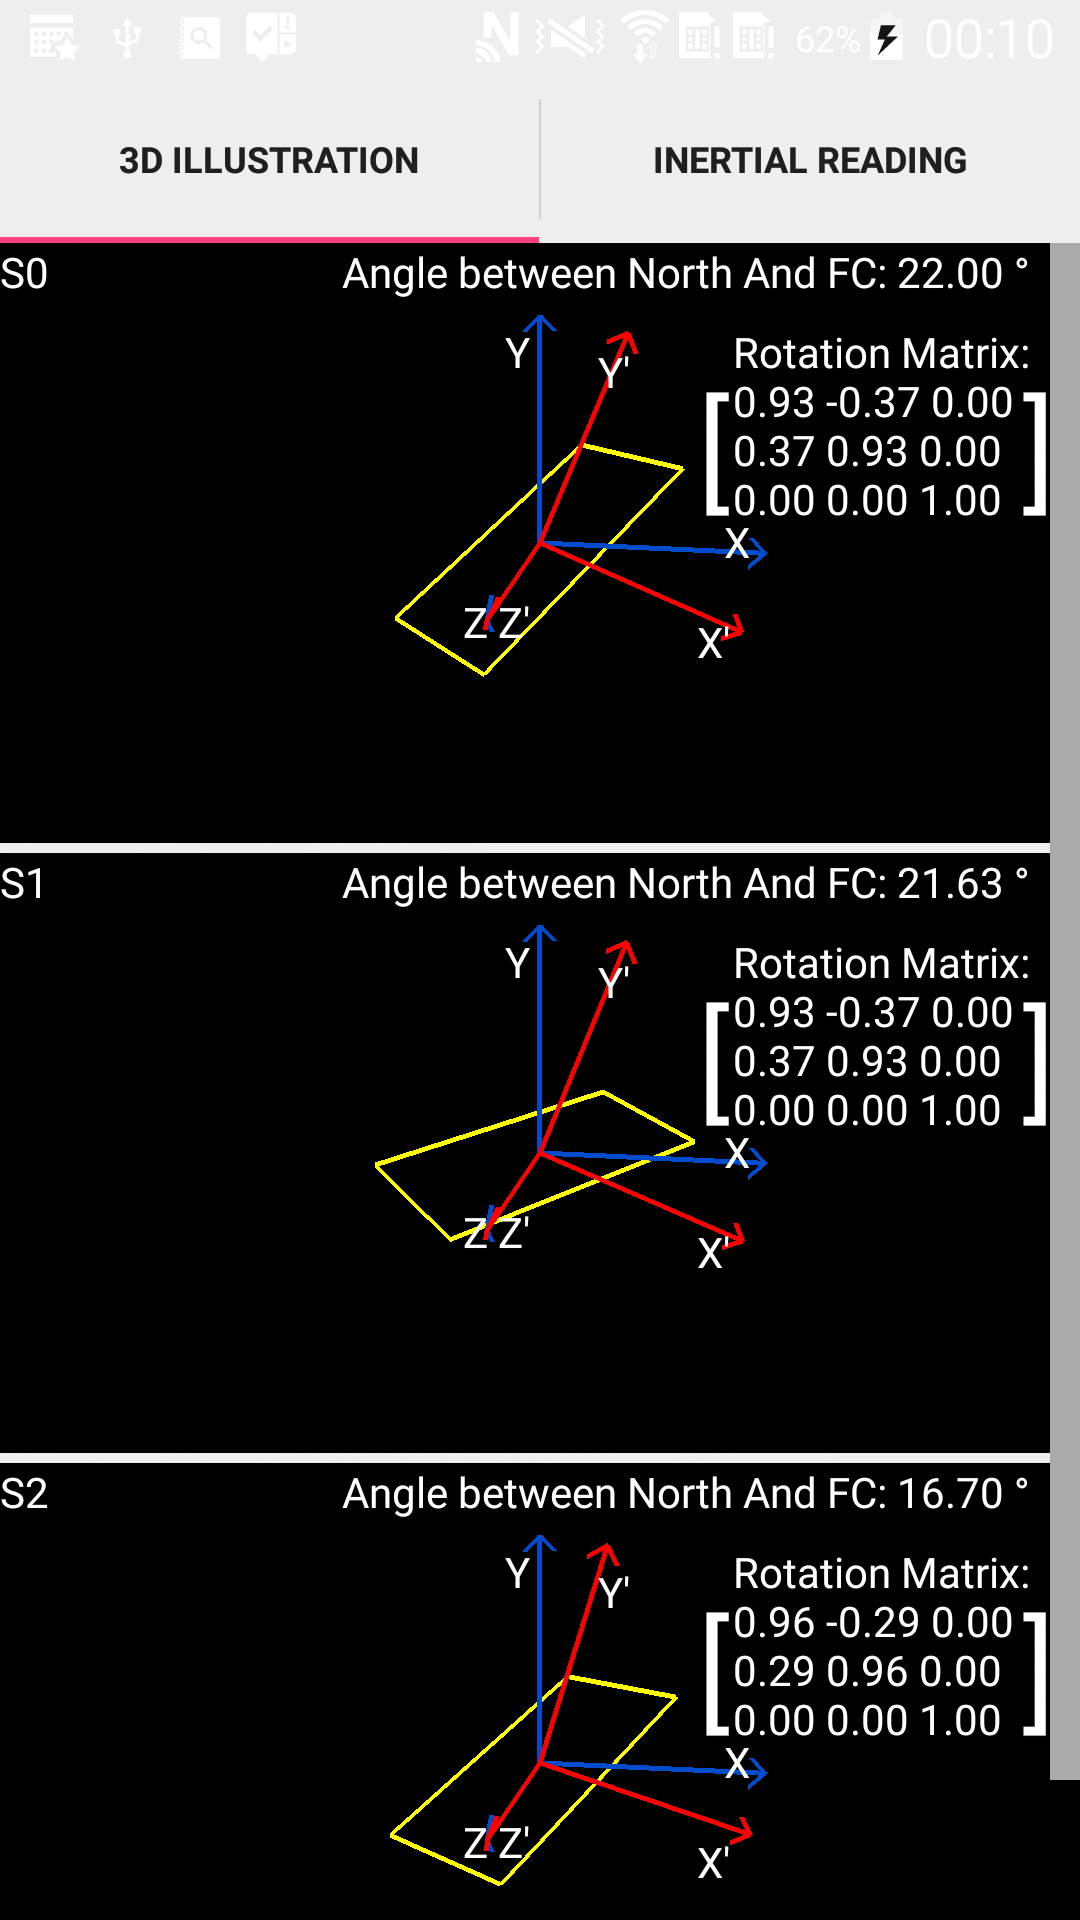
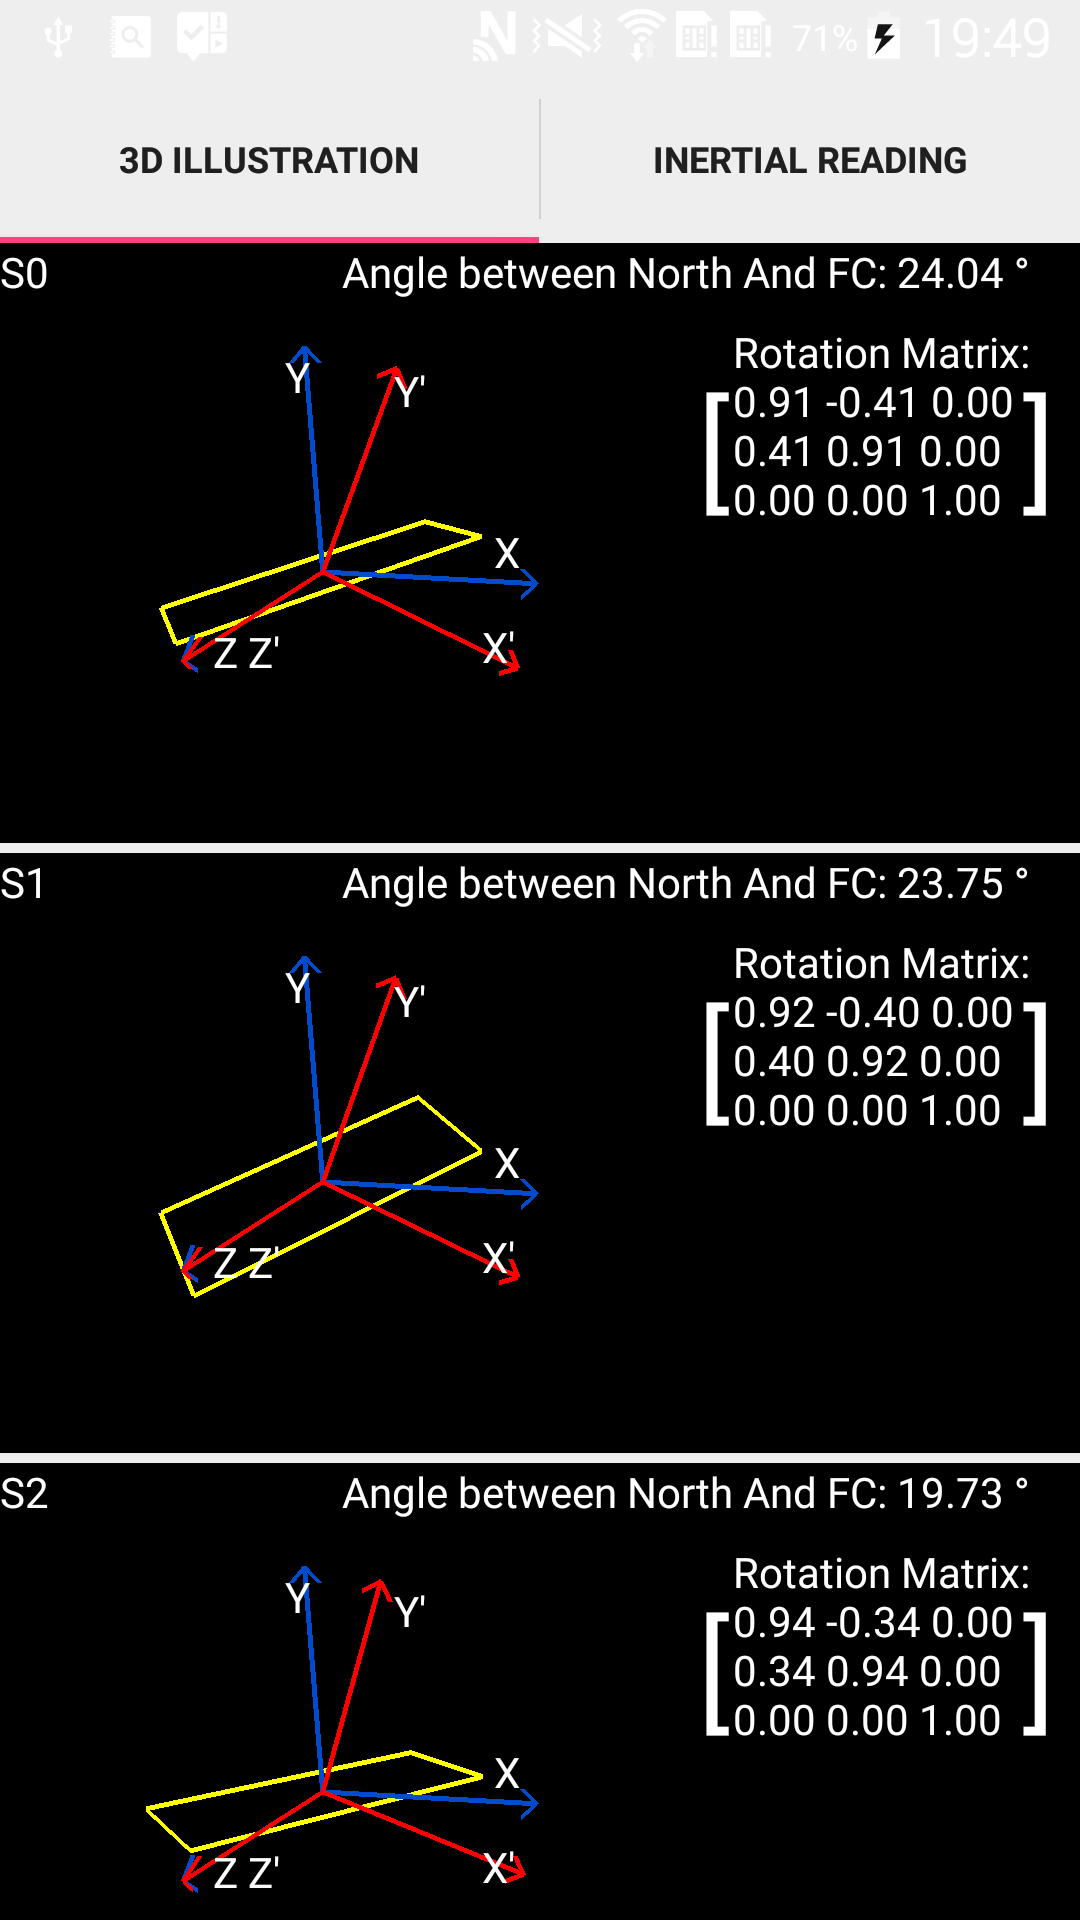
android ui change

diff --git a/app/src/main/java/com/dislab/leocai/spacesyncandroidui/ui/DirectionFragment.java b/app/src/main/java/com/dislab/leocai/spacesyncandroidui/ui/DirectionFragment.java
@@ -6,6 +6,7 @@ import android.support.v4.app.Fragment;
 import android.view.LayoutInflater;
 import android.view.View;
 import android.view.ViewGroup;
+import android.widget.EditText;
 import android.widget.LinearLayout;
 
 import com.dislab.leocai.spacesync.core.DirectionEstimateResults;
@@ -28,19 +29,47 @@ public class DirectionFragment extends Fragment implements DirectionListener {
 
     private SpaceSync spaceSync;
     private List<DirectionUI> directionUIList;
+    private EditText tv_expName;
+
+    FileWriter fileWriterAngle;
+    FileWriter fileWriterNorth;
+    FileWriter fileWriterXAxis;
+
+
 
     @Override
     public View onCreateView(LayoutInflater inflater, ViewGroup container, Bundle savedInstanceState) {
         spaceSync = ((MainActivity)getActivity()).getSpaceSync();
-        if(spaceSync!=null){
-            spaceSync.setDataListener(new DataWriterListener());
-        }
-        return inflater.inflate(R.layout.frg_chart, container, false);
+
+        return inflater.inflate(R.layout.frg_direction, container, false);
     }
     @Override
     public void onActivityCreated(Bundle savedInstanceState) {
         super.onActivityCreated(savedInstanceState);
-        LinearLayout ly = (LinearLayout) getView().findViewById(R.id.root);
+        LinearLayout ly = (LinearLayout) getView().findViewById(R.id.ly_ui);
+        tv_expName = (EditText) getView().findViewById(R.id.tv_expName);
+        getView().findViewById(R.id.btn_ready).setOnClickListener(new View.OnClickListener() {
+            @Override
+            public void onClick(View v) {
+                String file = tv_expName.getText().toString();
+                if(file.equals("")) return;
+                tv_expName.setEnabled(false);
+                v.setEnabled(false);
+                try {
+                    File parent = new File(Environment.getExternalStorageDirectory() + "/" + file);
+                    parent.deleteOnExit();
+                    parent.mkdirs();
+                    fileWriterAngle = new FileWriter(new File(Environment.getExternalStorageDirectory()+"/"+file, "angle.csv"));
+                    fileWriterXAxis = new FileWriter(new File(Environment.getExternalStorageDirectory()+"/"+file, "xAxis.csv"));
+                    fileWriterNorth = new FileWriter(new File(Environment.getExternalStorageDirectory()+"/"+file, "north.csv"));
+                } catch (IOException e) {
+                    e.printStackTrace();
+                }
+                if(spaceSync!=null){
+                    spaceSync.setDataListener(new DataWriterListener(file));
+                }
+            }
+        });
         int clientsNum;
         if(spaceSync==null){
             clientsNum = 3;
@@ -63,37 +92,56 @@ public class DirectionFragment extends Fragment implements DirectionListener {
     @Override
     public void dealWithDirection(DirectionEstimateResults directions, boolean isSyncTime) {
         double[][] axises = directions.getHoriFcDirection();
-        double[][] magDirections = directions.getClientsMagDirections();
+        double[][] north = directions.getNorth();
         double [] angle = new double[axises.length];
         for (int i = 0; i < axises.length; i++) {
-            directionUIList.get(i).setV1(new float[]{(float) magDirections[i][0], (float) magDirections[i][2]});
+            directionUIList.get(i).setV1(north[i]);
             if(isSyncTime){
-                directionUIList.get(i).setV2(new float[]{(float) axises[i][0], (float) axises[i][2]});
+                directionUIList.get(i).setV2(axises[i]);
                 angle[i] = directionUIList.get(i).computAngle();
             }
         }
-        if(isSyncTime)
-            write(angle);
+        if(isSyncTime){
+            write(fileWriterAngle,angle);
+            write(fileWriterNorth,north);
+            write(fileWriterXAxis,directions.getClientsInitXAxis());
+        }
     }
 
-    FileWriter  fileWriter;
-    {
+
+    private void write(FileWriter fw,double[][] vectors) {
+        if(fw==null){
+            return;
+        }
         try {
-            fileWriter = new FileWriter(new File(Environment.getExternalStorageDirectory(), "angle.csv"));
+            String line="";
+            for (int i = 0; i < vectors.length; i++) {
+                for (int j = 0; j < 3; j++) {
+                    line += vectors[i][j];
+                    if(i!=(vectors.length-1)||(j!=2)) line+=",";
+                }
+            }
+            fw.write(line+"\n");
+            fw.flush();
         } catch (IOException e) {
             e.printStackTrace();
         }
     }
 
-    private void write(double []angle) {
+
+
+    private void write(FileWriter fw, double[] angle) {
+        if(fw ==null){
+            return;
+        }
         try {
             String line="";
             for (int i = 0; i < angle.length; i++) {
                 line += angle[i];
                 if(i!=angle.length-1) line+=",";
             }
-            fileWriter.write(line+"\n");
-            fileWriter.flush();
+            fw.write(line + "\n");
+            fw.flush();
         } catch (IOException e) {
             e.printStackTrace();
         }

diff --git a/app/src/main/java/com/dislab/leocai/spacesyncandroidui/ui/DirectionUI.java b/app/src/main/java/com/dislab/leocai/spacesyncandroidui/ui/DirectionUI.java
@@ -14,8 +14,8 @@ import com.dislab.leocai.spacesync.utils.VectorUtils;
  */
 public class DirectionUI extends View {
 
-    private float[] v1 = new float[]{1,0};
-    private float[] v2 = new float[]{0,1};
+    private float[] v1 = new float[]{1,0,0};
+    private float[] v2 = new float[]{0,1,0};
     private Paint paint1 = new Paint();
     private Paint paint2 = new Paint();
     private double angle;
@@ -41,14 +41,27 @@ public class DirectionUI extends View {
         paint2.setColor(Color.RED);
         paint1.setStrokeWidth(5);
         paint2.setStrokeWidth(5);
-        canvas.drawLine(-v1[0] * centerX + centerX, -v1[1] * centerX + centerY, v1[0] * centerX + centerX, v1[1] * centerX + centerY, paint1);
-        canvas.drawLine(-v2[0] * centerX + centerX, -v2[1] * centerX + centerY, v2[0] * centerX + centerX, v2[1] * centerX + centerY, paint2);
-        paint1.setTextSize(50);
-        canvas.drawText(String.format("%.2f", angle), 100, 100, paint1);
+        float[] v1_2d = unitVector2D(v1);
+        float[] v2_2d = unitVector2D(v2);
+//        canvas.drawLine(-v1_2d[0] * centerX + centerX, -v1_2d[1] * centerX + centerY, v1_2d[0] * centerX + centerX, v1_2d[1] * centerX + centerY, paint1);
+//        canvas.drawLine(-v2_2d[0] * centerX + centerX, -v2_2d[1] * centerX + centerY, v2_2d[0] * centerX + centerX, v2_2d[1] * centerX + centerY, paint2);
+        int size = 80;
+        paint1.setTextSize(size);
+        canvas.drawText("Ag: " + String.format("%.2f", angle), 200, 100, paint1);
+        canvas.drawText(getVectorSrt("Ma: ", v1), 200, 100+size+40, paint1);
+        canvas.drawText(getVectorSrt("Fc: ",v2), 200, 100+size*2+80, paint1);
+    }
+
+    private String getVectorSrt(String lable, float[] v) {
+        String str = lable;
+        for (int i = 0; i < 3; i++) {
+            str+=String.format("%.2f", v[i])+" ";
+        }
+        return str;
     }
 
     private double getAngle(float[] v1, float[] v2) {
-        double costheta = (v1[0]*v2[0]+v1[1]*v2[1])/(abs(v1)*abs(v2));
+        double costheta = (v1[0]*v2[0]+v1[1]*v2[1]+v1[2]*v2[2])/(abs(v1)*abs(v2));
         double angle = Math.acos(costheta)/Math.PI*180;
         if(angle>180) angle = angle - 360;
         if(angle > 90 && angle < 180) angle = 180-angle;
@@ -57,23 +70,25 @@ public class DirectionUI extends View {
     }
 
     private double abs(float[] v1) {
-        return Math.sqrt(Math.pow(v1[0], 2) + Math.pow(v1[1], 2));
+        return Math.sqrt(Math.pow(v1[0], 2) + Math.pow(v1[1], 2)+ Math.pow(v1[2], 2));
     }
 
-    public void setV1(float[] v1) {
-        this.v1 = unitVector(v1);
-        postInvalidate();
-    }
 
     private float[] unitVector(float[] v1) {
         double len = abs(v1);
+        return new float[]{(float) (v1[0]/len), (float) (v1[1]/len), (float) (v1[2]/len)};
+    }
+
+    private double abs2D(float[] v1) {
+        return Math.sqrt(Math.pow(v1[0], 2) + Math.pow(v1[1], 2));
+    }
+
+    private float[] unitVector2D(float[] v1) {
+        double len = abs2D(v1);
         return new float[]{(float) (v1[0]/len), (float) (v1[1]/len)};
     }
 
-    public void setV2(float[] v2) {
-        this.v2 = unitVector(v2);
-        postInvalidate();
-    }
+
 
     public void setAngle(double angle) {
         this.angle = angle;
@@ -83,5 +98,15 @@ public class DirectionUI extends View {
         angle = getAngle(v1,v2);
         postInvalidate();
         return angle;
+    }
+
+    public void setV1(double[] v1) {
+        this.v1 = new float[]{(float) v1[0], (float) v1[1], (float) v1[2]};
+        postInvalidate();
+    }
+
+    public void setV2(double[] v2) {
+        this.v2 = new float[]{(float) v2[0], (float) v2[1], (float) v2[2]};
+        postInvalidate();
     }
 }

diff --git a/app/src/main/java/com/dislab/leocai/spacesyncandroidui/ui/DataWriterListener.java b/app/src/main/java/com/dislab/leocai/spacesyncandroidui/ui/DataWriterListener.java
@@ -1,6 +1,7 @@
 package com.dislab.leocai.spacesyncandroidui.ui;
 
 import android.os.Environment;
+import android.text.format.DateUtils;
 
 import com.dislab.leocai.spacesync.core.MultiClientDataBuffer;
 import com.dislab.leocai.spacesync.core.SyncBufferListener;
@@ -14,10 +15,12 @@ import java.io.IOException;
  */
 public class DataWriterListener implements  SyncBufferListener {
 
+    private final String expName;
     FileWriter fileWriter;
     private int writeCount;
 
-    public DataWriterListener() {
+    public DataWriterListener(String file) {
+        this.expName = file;
 
     }
 
@@ -35,7 +38,7 @@ public class DataWriterListener implements  SyncBufferListener {
     public void dealWithSyncBuffer(MultiClientDataBuffer buffer, boolean isSyncTime) {
         if (isSyncTime) {
             try {
-                fileWriter = new FileWriter(new File(Environment.getExternalStorageDirectory(), "multi_data_" + (writeCount++ + ".csv")));
+                fileWriter = new FileWriter(new File(Environment.getExternalStorageDirectory()+"/"+ expName, "multi_data_" + MyDataUtils.getTimeStr() + ".csv"));
                 double[][][] data_multi = buffer.get();
                 int clientNum = data_multi.length;
                 int row = data_multi[0].length;

diff --git a/app/src/main/java/com/dislab/leocai/spacesyncandroidui/PhoneFragment.java b/app/src/main/java/com/dislab/leocai/spacesyncandroidui/PhoneFragment.java
@@ -119,12 +119,12 @@ public class PhoneFragment extends Fragment  implements View.OnClickListener, On
         tv_angle.setTextColor(Color.WHITE);
         rl.addView(tv_angle);
 
-        addText(rl, 0, 80, 550, 0, "Y", 14);
-        addText(rl, 0, 270, 330, 0, "X", 14);
+        addText(rl, 0, 105, 770, 0, "Y", 14);
+        addText(rl, 0, 280, 560, 0, "X", 14);
 
-        addText(rl,0,100,450,0,"Y'", 14);
-        addText(rl,0,370,350,0,"X'", 14);
-        addText(rl,0,350,550,0,"Z Z'", 14);
+        addText(rl,0,119,654,0,"Y'", 14);
+        addText(rl,0,375,565,0,"X'", 14);
+        addText(rl,0,380,800,0,"Z Z'", 14);
 
 
         addText(rl,0,120,350,0,"[", 40);

diff --git a/app/src/main/java/com/dislab/leocai/spacesyncandroidui/MainActivity.java b/app/src/main/java/com/dislab/leocai/spacesyncandroidui/MainActivity.java
@@ -33,10 +33,10 @@ public class MainActivity extends FragmentActivity  {
                         .setIndicator("Inertial Reading"),
                 ChartFragment.class,
                 null);
-//        tabHost.addTab(tabHost.newTabSpec("Direction")
-//                        .setIndicator("Direction"),
-//                DirectionFragment.class,
-//                null);
+        tabHost.addTab(tabHost.newTabSpec("Direction")
+                        .setIndicator("Direction"),
+                DirectionFragment.class,
+                null);
 
 
     }

diff --git a/app/src/main/java/com/dislab/leocai/spacesyncandroidui/ui/PhoneDisplayerAndroidImpl.java b/app/src/main/java/com/dislab/leocai/spacesyncandroidui/ui/PhoneDisplayerAndroidImpl.java
@@ -81,7 +81,7 @@ public class PhoneDisplayerAndroidImpl extends GLSurfaceView implements GLSurfac
             gl.glClearColor(0.0f, 0.0f, 0.0f, 1f);
             gl.glClear(GL10.GL_COLOR_BUFFER_BIT);
             gl.glLoadIdentity();
-            gl.glTranslatef(0.0f, 0.0f, -5.0f);
+            gl.glTranslatef(-1.5f, -0.2f, -5.0f);
           //  triangle1.draw(gl);
             gl.glRotatef(15, 1, 0, 0);
             gl.glRotatef(-10, 0, 1, 0);

diff --git a/app/src/main/java/com/dislab/leocai/spacesyncandroidui/ui/MyDataUtils.java b/app/src/main/java/com/dislab/leocai/spacesyncandroidui/ui/MyDataUtils.java
@@ -1,0 +1,14 @@
+package com.dislab.leocai.spacesyncandroidui.ui;
+
+import java.text.SimpleDateFormat;
+import java.util.Date;
+
+/**
+ * Created by leocai on 17-2-16.
+ */
+public class MyDataUtils {
+    public static String getTimeStr() {
+        SimpleDateFormat sdf = new SimpleDateFormat("MM_dd_HH_mm_ss");
+        return sdf.format(new Date());
+    }
+}
